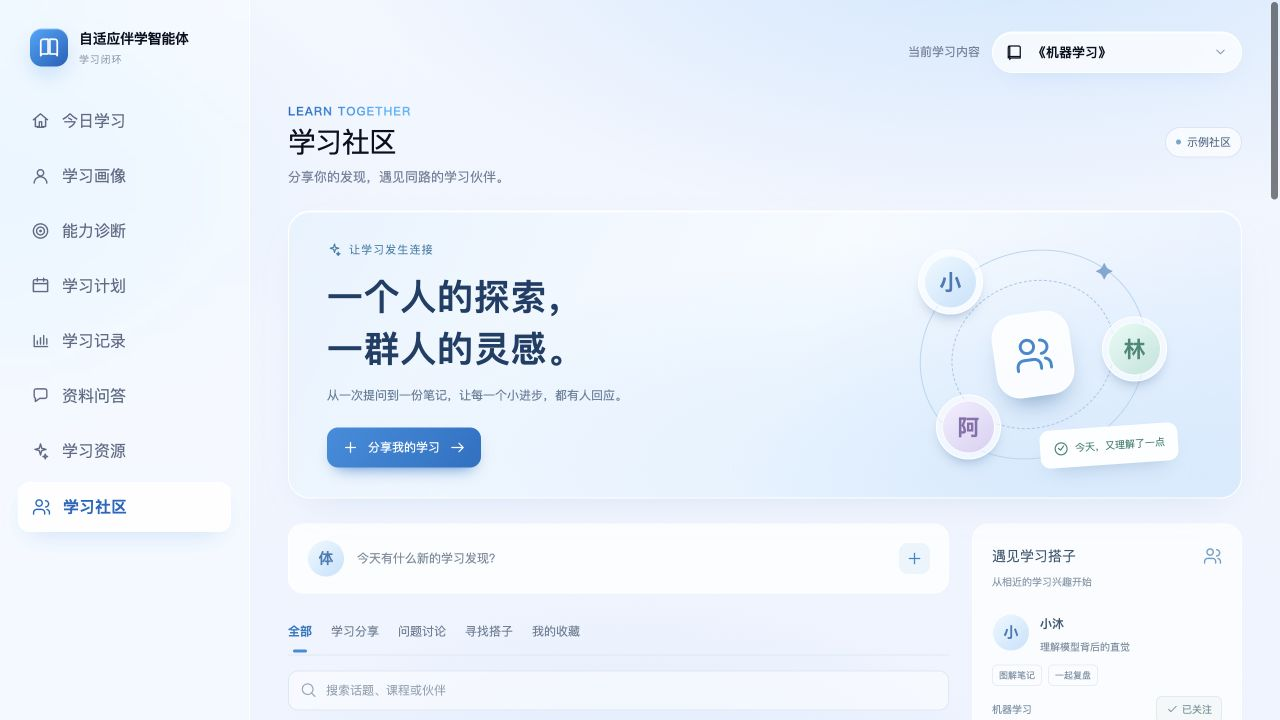
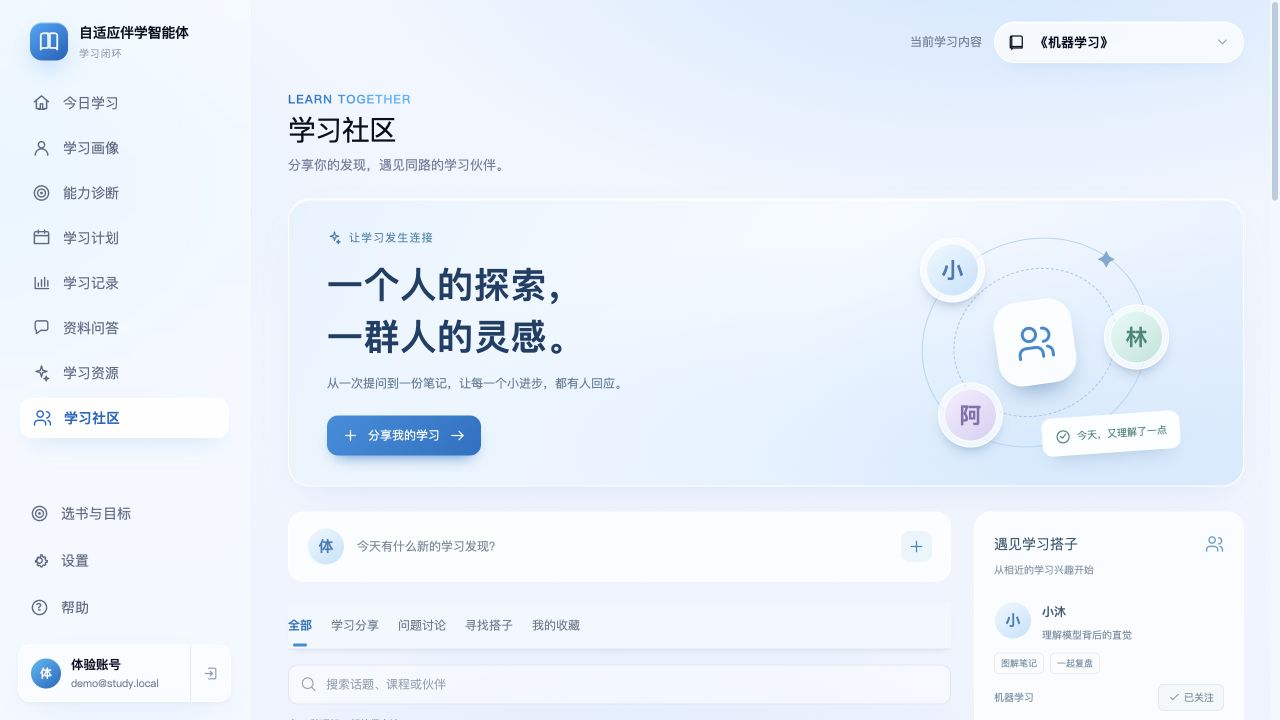
fix(frontend): refine desktop workspace scrolling and community copy

diff --git a/front/frontend/src/components/CommunityView.tsx b/front/frontend/src/components/CommunityView.tsx
@@ -52,8 +52,8 @@ function PublishForm({ course, onPublish }: { course: string; onPublish: (catego
     </div>
     <label>标题<input autoFocus required maxLength={96} placeholder="给你的分享起个标题" value={title} onChange={(event) => setTitle(event.target.value)} /></label>
     <label>分享内容<textarea required maxLength={1200} rows={6} placeholder="说说你的学习发现，或介绍你想找的学习搭子…" value={body} onChange={(event) => setBody(event.target.value)} /></label>
-    <div className="community-form-hint"><span>仅保存到此浏览器，不会公开发布。</span><span>{body.length} / 1200</span></div>
-    <button type="submit" className="primary-button" disabled={!title.trim() || !body.trim()}><Icon name="send" size={16} />发布到示例社区</button>
+    <div className="community-form-hint"><span>{body.length} / 1200</span></div>
+    <button type="submit" className="primary-button" disabled={!title.trim() || !body.trim()}><Icon name="send" size={16} />发布动态</button>
   </form>;
 }
 
@@ -86,7 +86,7 @@ export function CommunityView({ userId, nickname, course }: { userId: string; ni
   };
   const publish = (category: CommunityCategory, postCourse: string, title: string, body: string) => {
     dispatch({ type: "post", post: { id: `local-${crypto.randomUUID()}`, authorId: userId, authorName: nickname.slice(0, 100) || "学习者", category, course: postCourse.slice(0, 80), title, body, createdAt: new Date().toISOString(), likes: 0 } });
-    setFilter("全部"); setQuery(""); setDialog(null); setNotice("动态已添加到示例社区，仅此浏览器可见");
+    setFilter("全部"); setQuery(""); setDialog(null); setNotice("动态已发布");
   };
   const comment = (event: FormEvent, post: CommunityPost) => {
     event.preventDefault();
@@ -94,10 +94,10 @@ export function CommunityView({ userId, nickname, course }: { userId: string; ni
     if (!body) return;
     dispatch({ type: "comment", comment: { id: `comment-${crypto.randomUUID()}`, postId: post.id, authorName: nickname.slice(0, 100) || "学习者", body } });
     setDrafts((current) => ({ ...current, [post.id]: "" }));
-    setNotice("评论已添加，仅此浏览器可见");
+    setNotice("评论已添加");
   };
   return <section className="community-page" aria-labelledby="community-heading">
-    <div className="page-header community-page-header"><div><span className="eyebrow">LEARN TOGETHER</span><h1 id="community-heading">学习社区</h1><p>分享你的发现，遇见同路的学习伙伴。</p></div><span className="community-demo-tag"><span />示例社区</span></div>
+    <div className="page-header community-page-header"><div><span className="eyebrow">LEARN TOGETHER</span><h1 id="community-heading">学习社区</h1><p>分享你的发现，遇见同路的学习伙伴。</p></div></div>
 
     <div className="community-hero">
       <div className="community-hero-copy"><span className="community-kicker"><Icon name="spark" size={15} />让学习发生连接</span><h2>一个人的探索，<br />一群人的灵感。</h2><p>从一次提问到一份笔记，让每一个小进步，都有人回应。</p><button className="community-hero-button" onClick={() => setDialog("publish")}><Icon name="plus" size={17} />分享我的学习<Icon name="arrow-right" size={17} /></button></div>
@@ -107,7 +107,8 @@ export function CommunityView({ userId, nickname, course }: { userId: string; ni
     <div className="community-layout">
       <div className="community-feed">
         <div className="community-composer"><Avatar name={nickname || "我"} /><button onClick={() => setDialog("publish")}>今天有什么新的学习发现？</button><button className="community-compose-icon" aria-label="发布动态" onClick={() => setDialog("publish")}><Icon name="plus" /></button></div>
-        <div className="community-feed-tools"><div className="community-filters" role="group" aria-label="动态分类筛选">{filters.map((item) => <button key={item} aria-pressed={filter === item} className={filter === item ? "active" : ""} onClick={() => setFilter(item)}>{item}</button>)}</div><label className="community-search"><Icon name="search" size={16} /><input aria-label="搜索社区动态" placeholder="搜索话题、课程或伙伴" value={query} maxLength={100} onChange={(event) => setQuery(event.target.value)} /></label></div>
+        <div className="community-filters" role="group" aria-label="动态分类筛选">{filters.map((item) => <button key={item} aria-pressed={filter === item} className={filter === item ? "active" : ""} onClick={() => setFilter(item)}>{item}</button>)}</div>
+        <label className="community-search"><Icon name="search" size={16} /><input aria-label="搜索社区动态" placeholder="搜索话题、课程或伙伴" value={query} maxLength={100} onChange={(event) => setQuery(event.target.value)} /></label>
         <p className="community-results" role="status">{query.trim() ? `搜索结果 · ${posts.length} 条动态` : filter === "我的收藏" ? `我的收藏 · ${posts.length} 条动态` : "每一种理解，都值得交流"}</p>
         <div className="community-posts">
           {posts.map((post) => {
@@ -135,15 +136,15 @@ export function CommunityView({ userId, nickname, course }: { userId: string; ni
 
       <aside className="community-rail" aria-label="学习伙伴与小组">
         <section className="community-side-card"><div className="community-side-heading"><h2>遇见学习搭子</h2><Icon name="users" size={19} /></div><p className="community-side-description">从相近的学习兴趣开始</p>{suggestions.map((person) => <div key={person.id} className="community-person"><button className="community-person-profile" aria-label={`查看${person.name}的资料`} onClick={() => setDialog(person)}><Avatar name={person.name} color={person.color} /><span><strong>{person.name}</strong><small>{person.goal}</small></span></button><div className="community-person-tags">{person.tags.map((tag) => <span key={tag}>{tag}</span>)}</div><div className="community-person-bottom"><span>{person.course}</span><button aria-label={`${state.followedIds.includes(person.id) ? "取消关注" : "关注"}${person.name}`} aria-pressed={state.followedIds.includes(person.id)} className={state.followedIds.includes(person.id) ? "following" : ""} onClick={() => toggleFollow(person)}><Icon name={state.followedIds.includes(person.id) ? "check" : "plus"} size={13} />{state.followedIds.includes(person.id) ? "已关注" : "关注"}</button></div></div>)}</section>
-        <section className="community-side-card"><div className="community-side-heading"><h2>找到你的学习圈</h2><Icon name="spark" size={19} /></div><p className="community-side-description">同一个主题，不一样的视角</p>{communityGroups.map((group) => <div className="community-group" key={group.id}><span className={`community-group-icon community-tone-${group.color}`}><Icon name={group.icon} size={18} /></span><div><strong>{group.name}</strong><small>{group.detail}</small><button aria-label={`${state.joinedIds.includes(group.id) ? "退出" : "加入"}${group.name}`} aria-pressed={state.joinedIds.includes(group.id)} onClick={() => { dispatch({ type: "toggle", field: "joinedIds", id: group.id }); setNotice(state.joinedIds.includes(group.id) ? `已退出${group.name}` : `已加入${group.name}（本地展示）`); }}>{state.joinedIds.includes(group.id) ? "已加入 · 点击退出" : "加入小组 →"}</button></div></div>)}</section>
+        <section className="community-side-card"><div className="community-side-heading"><h2>找到你的学习圈</h2><Icon name="spark" size={19} /></div><p className="community-side-description">同一个主题，不一样的视角</p>{communityGroups.map((group) => <div className="community-group" key={group.id}><span className={`community-group-icon community-tone-${group.color}`}><Icon name={group.icon} size={18} /></span><div><strong>{group.name}</strong><small>{group.detail}</small><button aria-label={`${state.joinedIds.includes(group.id) ? "退出" : "加入"}${group.name}`} aria-pressed={state.joinedIds.includes(group.id)} onClick={() => { dispatch({ type: "toggle", field: "joinedIds", id: group.id }); setNotice(state.joinedIds.includes(group.id) ? `已退出${group.name}` : `已加入${group.name}`); }}>{state.joinedIds.includes(group.id) ? "已加入 · 点击退出" : "加入小组 →"}</button></div></div>)}</section>
         <section className="community-guideline"><Icon name="shield" size={20} /><div><h2>让交流有温度</h2><p>分享思路，尊重不同理解。<br />多一点启发，少一点直接代答。</p></div></section>
-        <div className="community-demo-info"><p>示例人物与动态用于交互展示。发帖、评论和关注仅保存在此浏览器，不会发送给其他用户。</p>{!persistent && <p role="alert">浏览器存储不可用，操作暂存在当前会话，刷新后可能丢失。</p>}<button onClick={() => setDialog("reset")}>恢复初始示例</button></div>
+        <div className="community-data-tools">{!persistent && <p role="alert">浏览器存储不可用，操作暂存在当前会话，刷新后可能丢失。</p>}<button onClick={() => setDialog("reset")}>重置社区</button></div>
       </aside>
     </div>
     <div className={`community-notice ${notice ? "visible" : ""}`} role="status" aria-live="polite">{notice && <><Icon name="check-circle" size={18} />{notice}</>}</div>
 
     {dialog === "publish" && <CommunityDialog title="分享你的学习" onClose={() => setDialog(null)}><PublishForm course={course} onPublish={publish} /></CommunityDialog>}
-    {dialog === "reset" && <CommunityDialog title="恢复初始示例？" onClose={() => setDialog(null)}><p className="community-reset-copy">这将清除当前账号在此浏览器的社区发帖、评论、点赞、收藏、关注和加入记录。学习计划、画像及其他账号的数据不会改变。</p><div className="community-dialog-actions"><button className="secondary-button" onClick={() => setDialog(null)}>取消</button><button className="primary-button" onClick={() => { dispatch({ type: "reset" }); setExpanded([]); setDrafts({}); setQuery(""); setFilter("全部"); setDialog(null); setNotice("已恢复初始示例"); }}>确认恢复</button></div></CommunityDialog>}
-    {dialog && typeof dialog === "object" && <CommunityDialog title="学习伙伴" onClose={() => setDialog(null)}><div className="community-profile-detail"><Avatar name={dialog.name} color={dialog.color} large /><h3>{dialog.name}</h3><p>{dialog.role}</p><span className="community-category">{dialog.course}</span><p className="community-profile-bio">{dialog.bio}</p><dl><div><dt>学习目标</dt><dd>{dialog.goal}</dd></div><div><dt>学习时间</dt><dd>{dialog.time}</dd></div><div><dt>交流偏好</dt><dd>{dialog.tags.join(" · ")}</dd></div></dl><button className="primary-button" aria-pressed={state.followedIds.includes(dialog.id)} onClick={() => toggleFollow(dialog)}><Icon name={state.followedIds.includes(dialog.id) ? "check" : "plus"} size={16} />{state.followedIds.includes(dialog.id) ? "已关注 · 取消关注" : "关注这位伙伴"}</button><small>示例资料，关注不会向真实用户发送通知。</small></div></CommunityDialog>}
+    {dialog === "reset" && <CommunityDialog title="重置社区？" onClose={() => setDialog(null)}><p className="community-reset-copy">这将清除当前账号在此浏览器的社区发帖、评论、点赞、收藏、关注和加入记录。学习计划、画像及其他账号的数据不会改变。</p><div className="community-dialog-actions"><button className="secondary-button" onClick={() => setDialog(null)}>取消</button><button className="primary-button" onClick={() => { dispatch({ type: "reset" }); setExpanded([]); setDrafts({}); setQuery(""); setFilter("全部"); setDialog(null); setNotice("社区已重置"); }}>确认重置</button></div></CommunityDialog>}
+    {dialog && typeof dialog === "object" && <CommunityDialog title="学习伙伴" onClose={() => setDialog(null)}><div className="community-profile-detail"><Avatar name={dialog.name} color={dialog.color} large /><h3>{dialog.name}</h3><p>{dialog.role}</p><span className="community-category">{dialog.course}</span><p className="community-profile-bio">{dialog.bio}</p><dl><div><dt>学习目标</dt><dd>{dialog.goal}</dd></div><div><dt>学习时间</dt><dd>{dialog.time}</dd></div><div><dt>交流偏好</dt><dd>{dialog.tags.join(" · ")}</dd></div></dl><button className="primary-button" aria-pressed={state.followedIds.includes(dialog.id)} onClick={() => toggleFollow(dialog)}><Icon name={state.followedIds.includes(dialog.id) ? "check" : "plus"} size={16} />{state.followedIds.includes(dialog.id) ? "已关注 · 取消关注" : "关注这位伙伴"}</button></div></CommunityDialog>}
   </section>;
 }

diff --git a/front/frontend/src/components/community.css b/front/frontend/src/components/community.css
@@ -3,8 +3,6 @@
 .community-page button:focus-visible, .community-page input:focus-visible, .community-dialog :is(button,input,select,textarea):focus-visible { outline: 3px solid #218ce0; outline-offset: 3px; }
 .community-page-header { align-items: center; gap: 12px; }
 .community-page-header h1 { font-size: 28px; }
-.community-demo-tag { display: inline-flex; align-items: center; gap: 6px; padding: 6px 10px; color: #53718b; border: 1px solid #d6e6f5; border-radius: 20px; background: #ffffffa8; font-size: 11px; white-space: nowrap; }
-.community-demo-tag > span { width: 5px; height: 5px; border-radius: 50%; background: #72a6ca; }
 .community-hero { position: relative; overflow: hidden; display: flex; align-items: center; justify-content: space-between; min-height: 244px; padding: 30px 38px; margin: 20px 0 25px; border: 1px solid #fff; border-radius: 22px; background: radial-gradient(ellipse at 80% 90%, #c9e6ffb3, transparent 65%), linear-gradient(115deg,#e7f3ff,#f6fbff 53%,#e4f0ff); box-shadow: 0 14px 38px -22px #5a9dd04d, inset 0 1px 0 #fff; }
 .community-hero-copy { position: relative; z-index: 1; }
 .community-kicker { display: flex; align-items: center; gap: 7px; color: #357ea9; font-size: 11px; letter-spacing: .1em; }
@@ -31,8 +29,10 @@
 .community-composer { display: flex; align-items: center; gap: 12px; padding: 15px 18px; background: #ffffffc9; border: 1px solid white; border-radius: 15px; }
 .community-composer > button:not(.community-compose-icon) { min-width: 0; flex: 1; padding: 10px 0; color: #7b8c9e; background: transparent; text-align: left; font-size: 12px; }
 .community-compose-icon { display: grid; place-items: center; width: 31px; height: 31px; flex-shrink: 0; border-radius: 9px; color: #2587cc; background: #eaf4fd; }
-.community-feed-tools { margin-top: 21px; }
-.community-filters { display: flex; gap: 19px; overflow-x: auto; padding-bottom: 2px; border-bottom: 1px solid #dce8f3; }
+.community-filters { display: flex; gap: 19px; overflow-x: auto; margin-top: 21px; padding: 6px 0 2px; border-bottom: 1px solid #dce8f3; }
+@media (min-width: 821px) {
+  .community-filters { position: sticky; top: 0; z-index: 4; background: #f2f7ff; box-shadow: 0 4px 8px -6px #56789755; }
+}
 .community-filters button { position: relative; flex-shrink: 0; padding: 8px 0 12px; background: transparent; color: #6b7d92; font-size: 12px; }
 .community-filters button.active { color: #1679c6; font-weight: 700; }
 .community-filters button.active::after { content: ""; position: absolute; bottom: 0; left: 20%; right: 20%; height: 3px; border-radius: 3px; background: #258dda; }
@@ -78,7 +78,7 @@
 .community-person-bottom { display: flex; align-items: center; justify-content: space-between; }.community-person-bottom > span { color: #7490a8; font-size: 10px; }.community-person-bottom > button { display: flex; align-items: center; gap: 3px; padding: 5px 9px; border: 1px solid #d3e6f6; color: #3891ce; background: #f1f8ff; border-radius: 6px; font-size: 10px; }.community-person-bottom > button.following { color: #6e929c; background: #f4f8f9; border-color: #e0eaec; }
 .community-group { display: flex; gap: 10px; padding: 18px 0; border-bottom: 1px solid #e9f0f6; }.community-group:last-child { border-bottom: 0; }.community-group-icon { display: grid; place-items: center; flex-shrink: 0; width: 35px; height: 35px; border-radius: 10px; }.community-group strong { display: block; font-size: 11px; color: #4f6e85; }.community-group small { display: block; margin-top: 5px; font-size: 9px; color: #859bad; }.community-group button { margin-top: 8px; padding: 2px 0; background: transparent; color: #448bbd; font-size: 10px; }
 .community-guideline { display: flex; align-items: flex-start; gap: 10px; padding: 19px; background: #e8f3f7a6; border-radius: 13px; color: #6598a9; }.community-guideline h2 { font-size: 12px; color: #588195; margin: 1px 0 7px; }.community-guideline p { font-size: 10px; line-height: 1.9; color: #7c98a6; margin: 0; }
-.community-demo-info { padding: 0 8px; color: #8b9baa; font-size: 10px; line-height: 1.8; }.community-demo-info p { margin: 0 0 8px; }.community-demo-info button { color: #718ca3; padding: 0; background: transparent; text-decoration: underline; text-underline-offset: 3px; font-size: 10px; }
+.community-data-tools { padding: 0 8px; color: #8b9baa; font-size: 10px; line-height: 1.8; }.community-data-tools p { margin: 0 0 8px; }.community-data-tools button { color: #718ca3; padding: 0; background: transparent; text-decoration: underline; text-underline-offset: 3px; font-size: 10px; }
 .community-empty { display: grid; justify-items: center; padding: 45px 20px; border-radius: 15px; border: 1px dashed #cddfeb; background: #ffffffa8; color: #77a1bf; text-align: center; }.community-empty h3 { font-size: 15px; color: #527189; }.community-empty p { font-size: 12px; line-height: 1.7; color: #7d94a6; }.community-empty button { margin-top: 10px; }
 .community-notice { position: fixed; z-index: 21; left: 50%; bottom: 28px; display: flex; align-items: center; gap: 8px; width: max-content; max-width: calc(100vw - 32px); padding: 12px 17px; border: 1px solid #d2e8f6; border-radius: 12px; background: #fff; color: #447c99; box-shadow: 0 10px 35px #3c70902b; transform: translateX(-50%); font-size: 12px; opacity: 0; pointer-events: none; }.community-notice.visible { opacity: 1; }
 .community-dialog { width: min(550px,calc(100vw - 32px)); max-height: calc(100dvh - 40px); margin: auto; padding: 0; border: 1px solid #deebf5; border-radius: 19px; background: #fff; color: #24435e; box-shadow: 0 28px 80px #163d6140; }
@@ -86,5 +86,6 @@
 .community-dialog-inner { padding: 25px; }.community-dialog header { display: flex; align-items: center; justify-content: space-between; gap: 12px; }.community-dialog h2 { margin: 0; font-size: 20px; }.community-icon-button { display: grid; place-items: center; width: 32px; height: 32px; border-radius: 50%; background: #f1f7fc; color: #6e8ca4; }
 .community-form { display: grid; gap: 17px; }.community-form-intro { font-size: 12px; color: #7b91a5; margin: 14px 0 3px; }.community-form label { display: grid; gap: 8px; font-size: 12px; color: #5d7890; }.community-form-row { display: grid; grid-template-columns: 1fr 1fr; gap: 14px; }.community-form :is(input,select,textarea) { box-sizing: border-box; width: 100%; min-width: 0; border: 1px solid #dbe7f1; background: #f8fbfe; color: #365874; border-radius: 9px; padding: 11px; font: inherit; font-size: 12px; line-height: 1.6; }.community-form textarea { resize: vertical; min-height: 115px; }.community-form-hint { display: flex; justify-content: space-between; gap: 10px; color: #8a9eae; font-size: 10px; }.community-form > button { justify-self: end; }
 .community-reset-copy { font-size: 13px; line-height: 1.9; color: #6e8598; margin: 22px 0; }.community-dialog-actions { display: flex; justify-content: flex-end; gap: 10px; }
+.community-form-hint { justify-content: flex-end; }
 .community-profile-detail { text-align: center; padding-top: 25px; }.community-profile-detail h3 { margin: 12px 0 6px; font-size: 20px; }.community-profile-detail > p { margin: 0 0 13px; color: #7a91a4; font-size: 12px; }.community-profile-detail p.community-profile-bio { margin: 24px 0 18px; line-height: 1.9; text-align: left; }.community-profile-detail dl { margin: 0 0 23px; padding: 14px; border-radius: 11px; background: #f4f9fe; text-align: left; font-size: 12px; }.community-profile-detail dl > div { display: flex; gap: 15px; padding: 7px 0; }.community-profile-detail dt { white-space: nowrap; color: #8a9cab; }.community-profile-detail dd { margin: 0; color: #56778e; }.community-profile-detail > button { margin: auto; }.community-profile-detail > small { display: block; margin-top: 13px; color: #8c9fae; font-size: 10px; }
 @media (max-width: 1200px) { .community-layout { grid-template-columns: minmax(0,1fr) 240px; gap: 17px; }.community-hero { padding: 26px; }.community-orbit { margin-right: 0; flex-basis: 250px; }.community-filters { gap: 14px; }.community-post { padding: 18px 17px 0; } }

diff --git a/front/frontend/src/App.tsx b/front/frontend/src/App.tsx
@@ -1,4 +1,4 @@
-import { useEffect, useMemo, useState, type CSSProperties, type ReactNode } from "react";
+import { useEffect, useMemo, useRef, useState, type CSSProperties, type ReactNode } from "react";
 import { Icon, type IconName } from "./components/Icon";
 import { LearnerProfileView } from "./components/LearnerProfileView";
 import { AuthView } from "./components/AuthView";
@@ -102,6 +102,7 @@ function App() {
   const [bookCatalog, setBookCatalog] = useState<BookCatalogItem[]>([]);
   const [knowledgePointNames, setKnowledgePointNames] = useState<Record<string, string>>({});
   const [activeNav, setActiveNav] = useState<NavKey>("today");
+  const pageContentRef = useRef<HTMLDivElement>(null);
   const [bookId, setBookId] = useState<BookId>(books[0].id);
   const [toast, setToast] = useState<Toast>(null);
   const [modal, setModal] = useState<ModalState | null>(null);
@@ -110,6 +111,11 @@ function App() {
   const [todayLearning, setTodayLearning] = useState<TodayLearningResponse | null>(null);
   const [planTab, setPlanTab] = useState<"overview" | "knowledge">("overview");
   const [goalLevel, setGoalLevel] = useState("能够独立完成基础练习");
+
+  // Each page starts at the top without remounting its forms or resetting learning state.
+  useEffect(() => {
+    pageContentRef.current?.scrollTo({ top: 0, left: 0, behavior: "auto" });
+  }, [activeNav, bookId]);
 
   const [diagnosticStage, setDiagnosticStage] = useState<"question" | "result">("question");
   const [diagnosticIndex, setDiagnosticIndex] = useState(0);
@@ -658,7 +664,9 @@ function App() {
       </aside>
 
       <main className="main-content">
+        <div className="page-content" ref={pageContentRef} role="region" aria-label="页面内容" tabIndex={0}>
         <header className="topbar"><div className="mobile-brand"><div className="brand-mark"><Icon name="book-open" size={20} /></div></div><div className="topbar-context"><span className="context-label">当前学习内容</span><label className="book-select"><Icon name="book" size={18} /><select value={bookId} onChange={(event) => resetBookState(event.target.value as BookId)} aria-label="选择当前学习内容">{bookOptions.map((book) => <option key={book.id} value={book.id}>{book.title}</option>)}</select><Icon name="chevron-down" size={15} /></label></div></header>
+        <div className="page-body">
         {activeNav === "today" && <TodayView book={currentBook} content={content} tasks={currentTasks} dashboard={todayDashboard} goTo={goTo} startDiagnostic={startDiagnostic} onOpenTask={openTask} onOpenKnowledge={openKnowledgeDetail} onOpenRecords={() => goTo("records")} />}
         {activeNav === "profile" && <LearnerProfileView bookId={bookId} />}
         {activeNav === "diagnostic" && <DiagnosticView questions={diagnosticQuestions} index={diagnosticIndex} answers={diagnosticAnswers} skippedQuestions={skippedQuestions} paused={diagnosticPaused} busy={diagnosticBusy} stage={diagnosticStage} result={diagnosticResult} calibration={calibration} calibrationReason={calibrationReason} setAnswer={(id) => currentQuestion && setDiagnosticAnswers((answers) => ({ ...answers, [currentQuestion.id]: id }))} onPrevious={() => setDiagnosticIndex((index) => Math.max(0, index - 1))} onSubmit={submitDiagnostic} onSkip={skipDiagnostic} onPause={() => setDiagnosticPaused(true)} onResume={resumeDiagnostic} onCalibration={setCalibration} onReason={setCalibrationReason} onEvidence={openEvidence} onCalibrationSubmit={submitCalibration} />}
@@ -670,6 +678,8 @@ function App() {
         {activeNav === "help" && <HelpCenterView onNavigate={goTo} />}
         {activeNav === "community" && <CommunityView key={user.userId} userId={user.userId} nickname={user.nickname} course={currentBook.shortTitle} />}
         {activeNav === "qa" && <QaView book={currentBook} sources={qaSources} messages={qaMessages} value={qaInput} busy={qaBusy} error={qaError} onChange={setQaInput} onAsk={askQuestion} onNew={() => void initializeQaConversation(bookId)} onOpenSource={openSource} onAddPlan={openMaterialPlanEditor} onAskGeneral={askWithGeneralModel} relatedKnowledgePointIds={(todayLearning?.knowledgeGraph.nodes ?? []).filter((node) => node.status === "weak").map((node) => node.id)} />}
+        </div>
+        </div>
       </main>
 
       {toast && <div className="toast" role="status"><div className="toast-icon"><Icon name="check" size={17} /></div><div><strong>{toast.title}</strong><span>{toast.message}</span></div></div>}

diff --git a/front/frontend/src/workspace-layout.css b/front/frontend/src/workspace-layout.css
@@ -1,0 +1,76 @@
+/* Desktop workspace: only the sidebar stays fixed. The right workspace,
+   including course controls, is one full-height scroll region. Auth is unchanged. */
+.page-content, .page-body { min-width: 0; }
+.page-content:focus-visible { outline: 2px solid #8bbce7; outline-offset: -3px; }
+
+@media (min-width: 821px) {
+  .app-shell {
+    --workspace-inline: 38px;
+    display: flex;
+    height: 100vh;
+    height: 100dvh;
+    min-height: 0;
+    overflow: hidden;
+  }
+
+  .app-shell > .sidebar {
+    flex-shrink: 0;
+    height: 100%;
+    min-height: 0;
+    padding: 22px 18px 18px;
+    overflow: hidden;
+  }
+
+  .sidebar > .brand-lockup { flex-shrink: 0; padding-bottom: 20px; }
+  .sidebar > .main-nav {
+    flex: 1;
+    min-height: 0;
+    align-content: start;
+    gap: 5px;
+    overflow-y: auto;
+    overscroll-behavior-y: contain;
+    scrollbar-width: thin;
+    padding: 2px;
+  }
+  .sidebar .nav-item { min-height: 40px; padding: 8px 12px; font-size: 14px; line-height: 22px; }
+  .sidebar > .sidebar-bottom { flex-shrink: 0; margin-top: 16px; }
+
+  .app-shell > .main-content {
+    display: flex;
+    flex-direction: column;
+    height: 100%;
+    min-height: 0;
+    padding: 0;
+    overflow: hidden;
+  }
+
+  .page-content > .topbar {
+    min-height: 78px;
+    margin: 0;
+    padding: 20px calc(var(--workspace-inline) - 12px) 14px var(--workspace-inline);
+  }
+
+  .main-content > .page-content {
+    flex: 1;
+    min-height: 0;
+    overflow: auto;
+    overscroll-behavior: contain;
+    scrollbar-gutter: stable;
+    scroll-padding-top: 12px;
+  }
+
+  .page-content:has(.community-page) { scroll-padding-top: 60px; }
+
+  .page-content > .page-body {
+    padding: 0 calc(var(--workspace-inline) - 12px) 36px var(--workspace-inline);
+  }
+
+  .page-content::-webkit-scrollbar { width: 10px; height: 10px; }
+  .page-content::-webkit-scrollbar-thumb { border: 2px solid #f2f7ff; border-radius: 8px; background: #b6cce0; }
+  .page-content::-webkit-scrollbar-thumb:hover { background: #8cadca; }
+  .page-content::-webkit-scrollbar-track { background: #f2f7ff; }
+}
+
+@media (min-width: 821px) and (max-width: 1100px) {
+  .app-shell { --workspace-inline: 24px; }
+}

diff --git a/front/frontend/src/main.tsx b/front/frontend/src/main.tsx
@@ -2,6 +2,7 @@ import { StrictMode } from "react";
 import { createRoot } from "react-dom/client";
 import "./styles.css";
 import "./theme-skyglass.css";
+import "./workspace-layout.css";
 import { App } from "./App";
 
 createRoot(document.getElementById("root")!).render(

diff --git a/front/frontend/docs/workspace-layout.md b/front/frontend/docs/workspace-layout.md
@@ -1,0 +1,31 @@
+# 桌面工作区布局
+
+## 行为
+
+- 桌面应用框架固定为当前浏览器可视高度，不随课程、表单或社区内容增长。
+- 左侧导航和底部账户入口留在窗口内；右侧顶部课程选择器、页面标题及横幅随内容一起滚动。
+- 右侧 `page-content` 从窗口顶部延伸到底部，最右侧滚动条从顶部开始，可通过滚轮、滚动条或聚焦后的键盘翻页查看完整内容。
+- 社区分类栏滚动到顶部后轻量吸顶；搜索框、伙伴推荐及小组卡片保持正常滚动，不叠加固定面板。
+- 切换页面或课程后，右侧滚动位置归零；不额外重建页面组件，也不修改学习数据。
+- 小高度桌面窗口中，导航列表必要时可以单独滚动，账户入口仍可访问。
+- 本次只调整桌面（821px 及以上）的公共布局，不新增手机端，也不改变登录页布局。
+
+## 实现
+
+- `src/workspace-layout.css`：视窗高度、公共 Flex 布局和滚动容器，放在现有主题之后加载。
+- `src/App.tsx`：将顶部课程栏与 `page-body` 放进同一个 `page-content` 滚动容器，通过 ref 在切页 / 切课后复位滚动位置。
+- `src/components/CommunityView.tsx` 与 `community.css`：分类栏直接属于动态流容器，使吸顶范围覆盖动态列表；为键盘滚动预留顶部空间，避免焦点被分类栏遮挡。
+- 不锁死文档根节点的滚动，不影响未登录页面、系统弹窗和原有表单。
+
+## 本次浏览器验收
+
+- 1280×720 下，文档、应用和右侧滚动区域高度均为 720px；滚动区域顶部坐标为 0。
+- 社区内容总高度超过 2500px；向下滚动 800px 后，文档仍为 720px，左侧导航顶部为 0，课程栏顶部为 -800px，分类栏吸顶位置为 0。
+- 1024×768、1440×900 下，文档宽高与视窗一致，无整页横向溢出，右侧滚动区域仍占满视窗高度。
+- 社区筛选后结果可见，发布弹窗居中且 Escape 关闭后焦点返回触发按钮。
+- 学习画像长表单滚动至底部可访问保存按钮；未保存输入保持不变。
+- 今日学习、画像、诊断、计划、记录、资料问答、资源、选书与目标、设置、帮助、社区使用同一滚动框架。
+- 逐页检查布局高度、切页后 scrollTop=0、内容可访问及固定导航。
+- 原有社区状态回归测试及前端生产构建均通过。
+
+此修改仅在本地预览与工作分支中生效，是否上传以仓库发布流程为准。

diff --git a/front/frontend/docs/community-demo.md b/front/frontend/docs/community-demo.md
@@ -2,6 +2,8 @@
 
 入口：登录后，在原有侧栏的「学习资源」下方选择「学习社区」。
 
+桌面布局采用固定视窗框架：左侧导航保持不动，右侧课程栏与页面内容一起滚动，最右侧滚动条从窗口顶部开始；社区分类栏轻量吸顶，搜索及伙伴推荐随页面滚动。公共布局说明见 [桌面工作区布局](workspace-layout.md)。
+
 ## 范围
 
 - 本次仅交付桌面 Web 页面，不包含手机端。
@@ -10,9 +12,10 @@
 - 虚拟人物和动态集中在 `src/data/communityMockData.ts`，没有外部头像请求。
 - 社区不调用 API、不修改数据库、学习计划、掌握度或长期记忆。
 - 示例人物、点赞数、内容均为演示素材，不代表真实用户和运营成果。
+- 展示界面使用「发布动态」「重置社区」等产品文案，不再常驻显示示例标签和本地存储说明；数据范围及实现状态以本开发文档为准。存储失败提示和重置前的数据清除确认仍保留。
 - 操作按用户保存于 `study-companion.community.v1.<encodedUserId>`；不跨设备同步、不发送通知。
 - 每个用户最多保留最近 100 条本地帖子、500 条本地评论；存储不可用时仅保留当前页面会话内的互动，并显示提示。
-- 「恢复初始示例」经确认后只清除当前用户的社区操作，不清除认证或其他学习数据。
+- 「重置社区」经确认后只清除当前用户的社区操作，不清除认证或其他学习数据。
 
 ## 本地运行（无后端）
 
@@ -40,7 +43,7 @@ node --test tests/community-state.test.mjs
 5. 查看伙伴资料，关注 / 取消关注；加入 / 退出主题小组。
 6. 切换页面、刷新、重新登录同一账号，社区操作仍保留；换账号不共享本地操作。
 7. 弹窗支持 Tab 焦点限制、Escape 关闭和返回触发按钮。
-8. 恢复示例先显示确认，取消不丢数据；确认不影响画像和学习计划。
+8. 重置社区先显示确认，取消不丢数据；确认不影响画像和学习计划。
 9. 回到今日学习、诊断、学习计划和学习资源，确认原有导航正常。
 
 ## 文件结构
